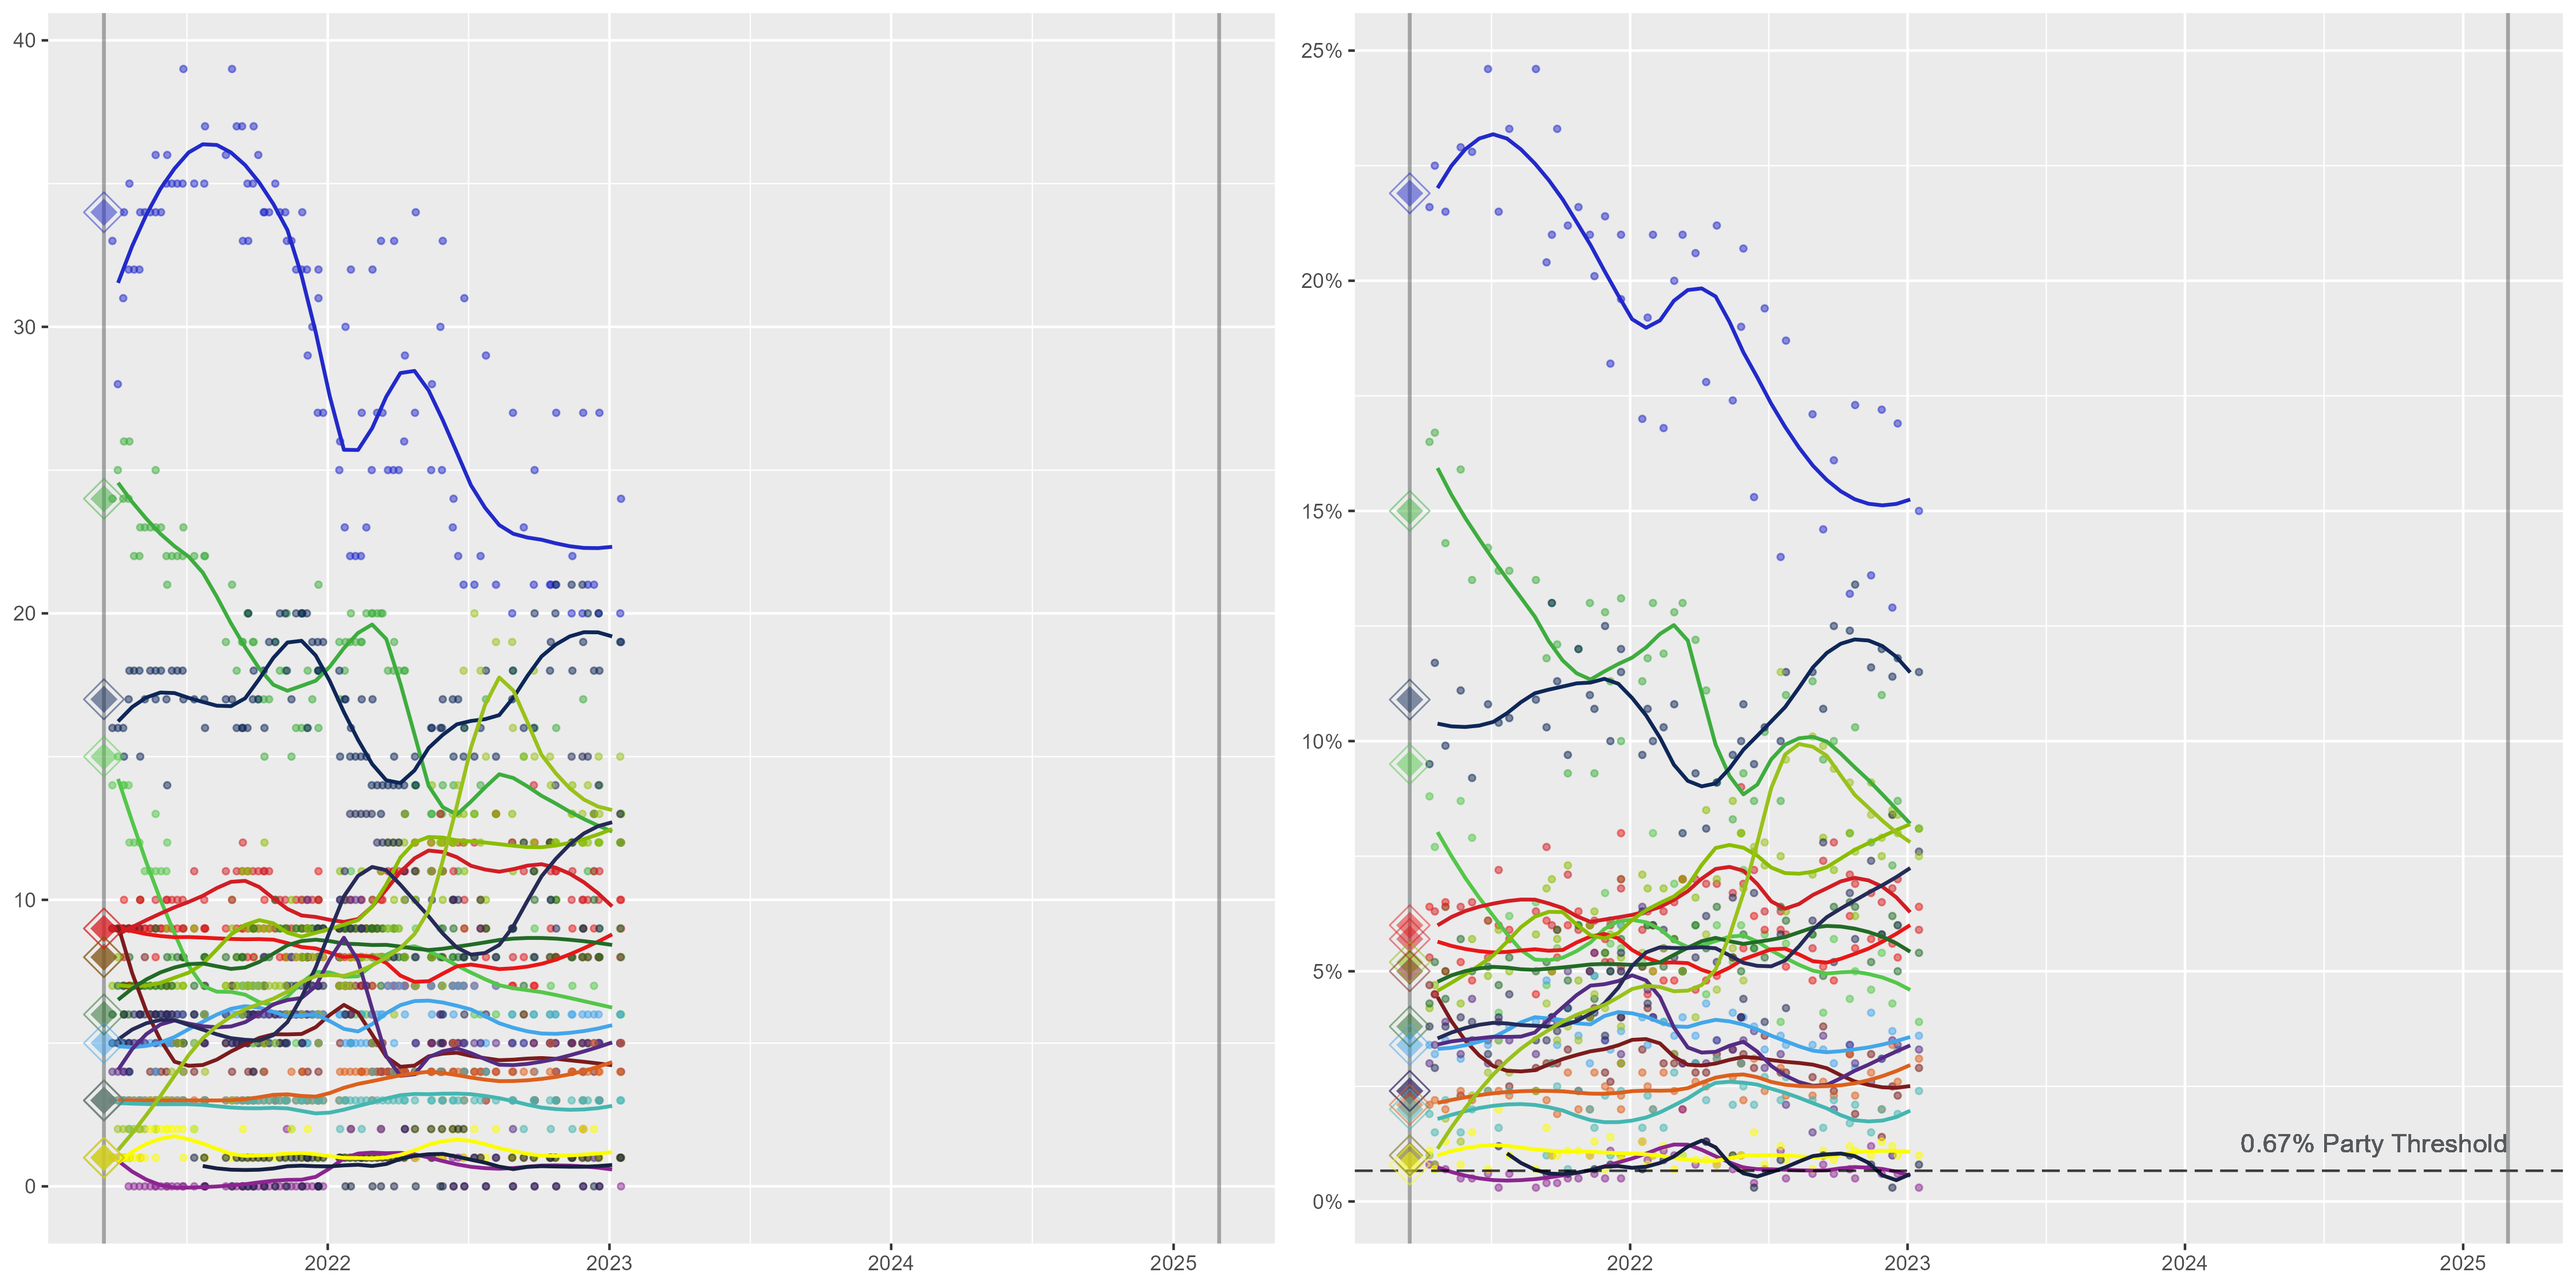
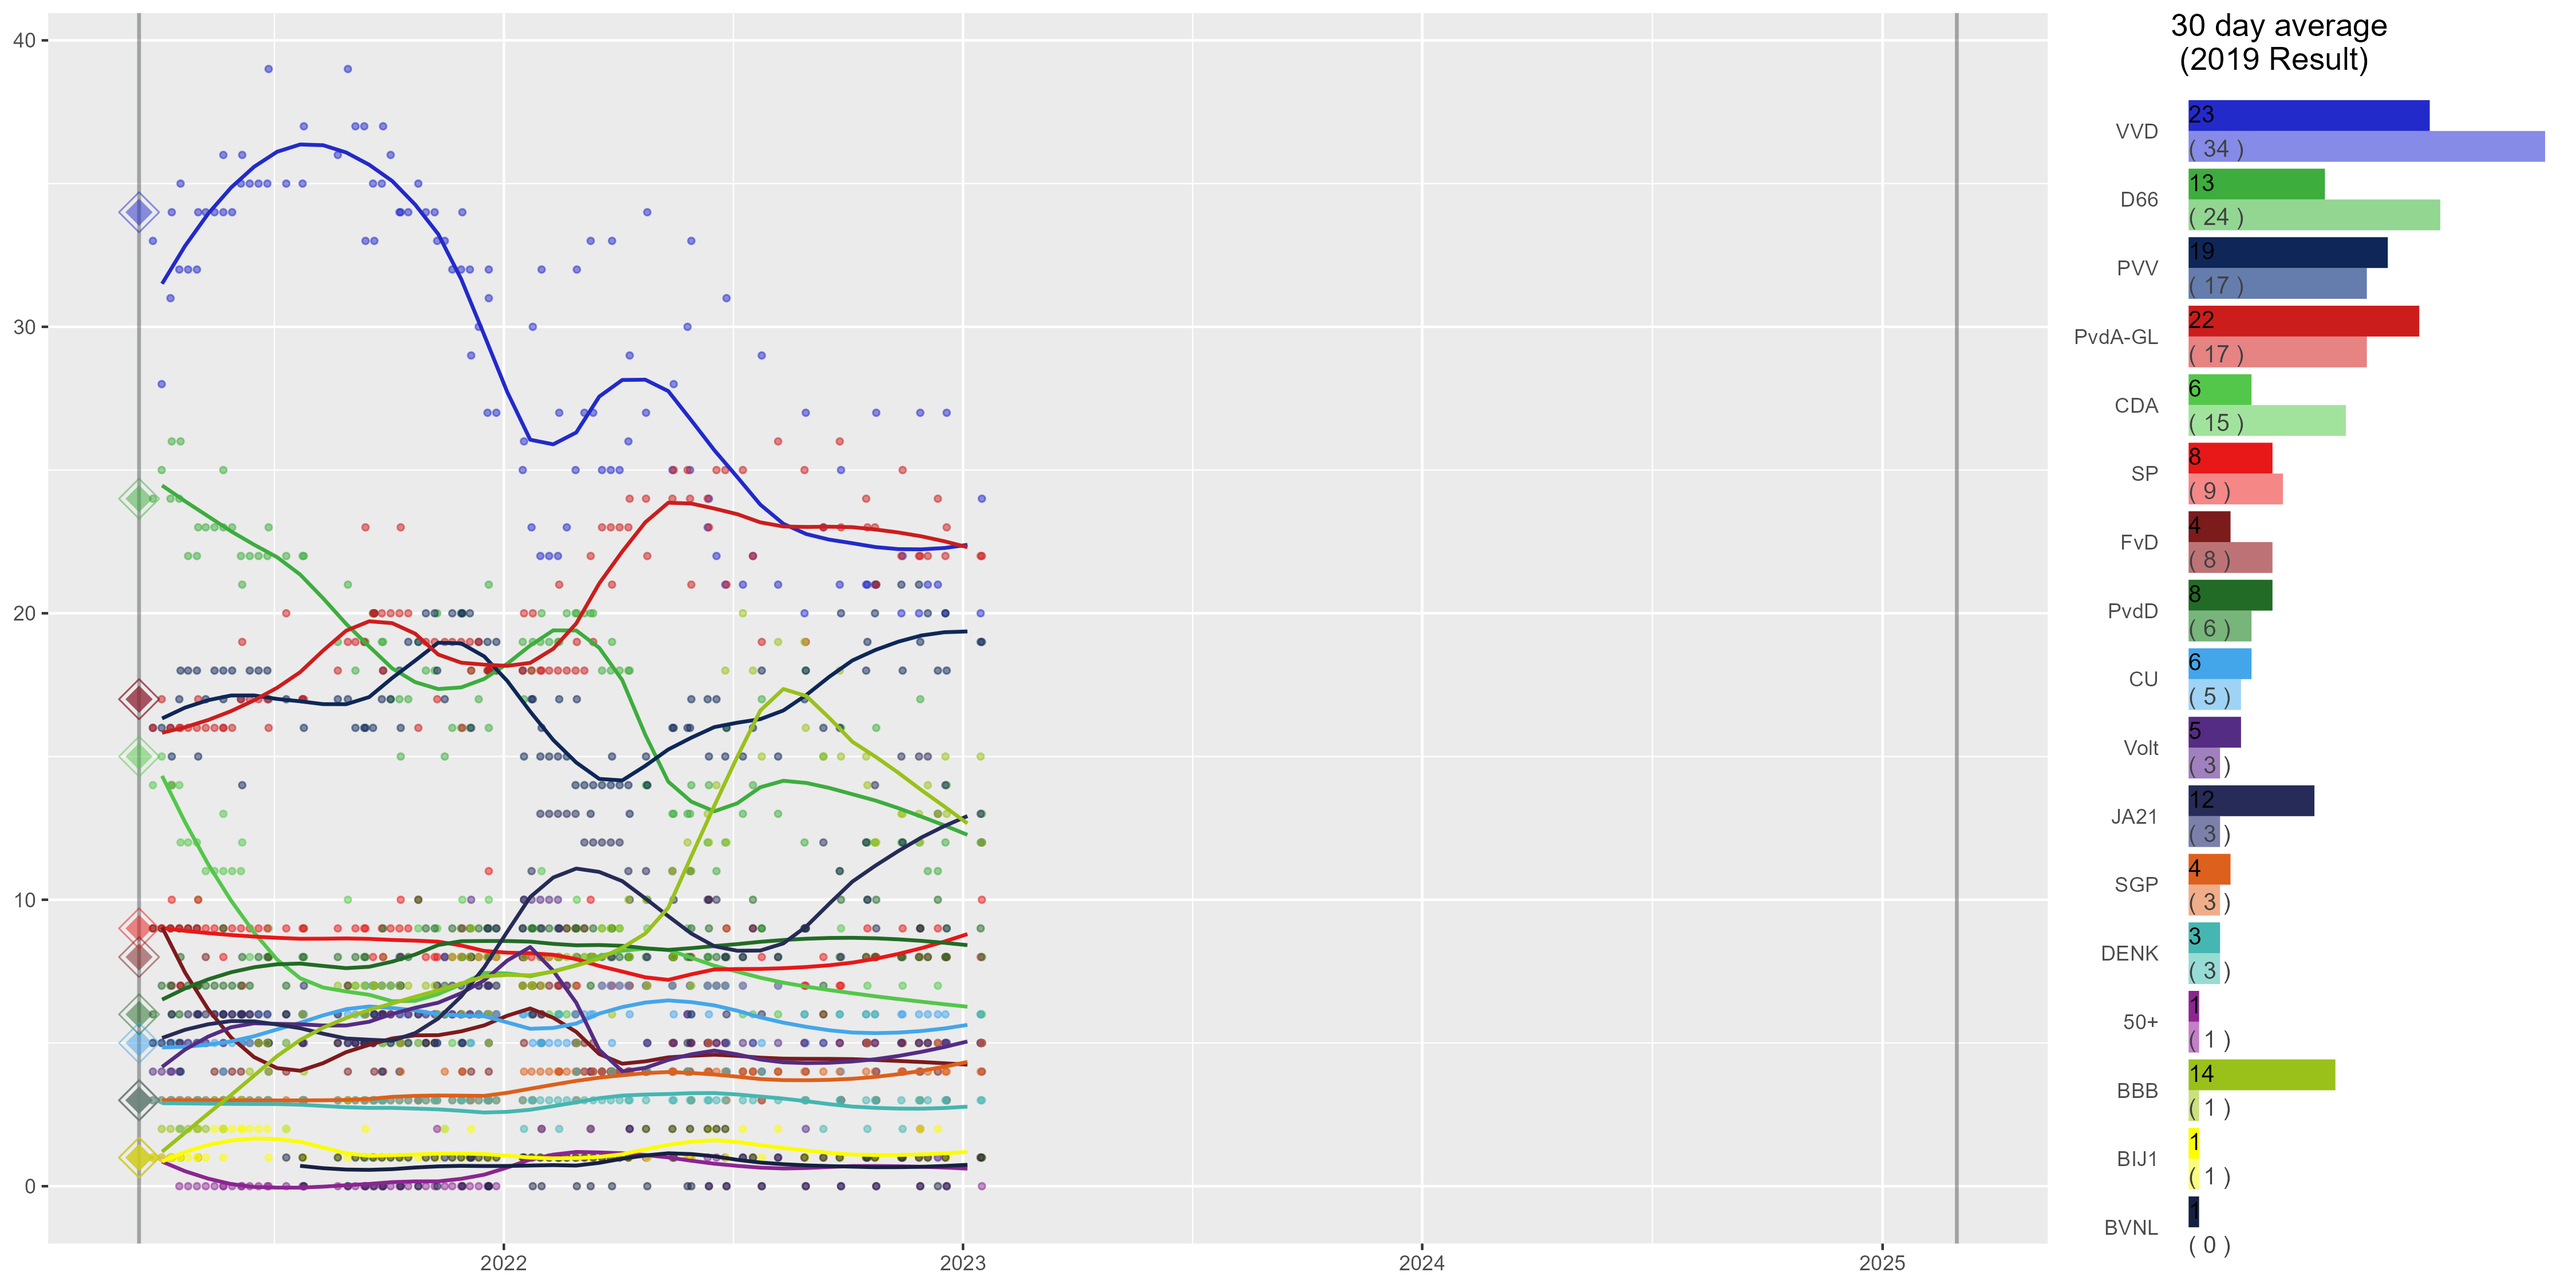
PvdA-GL Fusie!!!!

diff --git a/Dutch_Elections/data.py b/Dutch_Elections/data.py
@@ -33,7 +33,7 @@ print(data)
 data.to_csv('Dutch_Elections/poll.csv', index=False)
 
 
-data2=pd.DataFrame(df[1])
+data2=pd.DataFrame(df[0])
 data2=data2.drop(["Polling firm", "Sample size", "Others", "Lead"], axis=1)
 
 headers = ['Date','VVD','D66','PVV','CDA','SP','PvdA','GL','FvD','PvdD','CU','Volt','JA21','SGP','DENK','50+','BBB','BIJ1','BVNL']
@@ -46,8 +46,17 @@ data2.Date2.fillna(data2.Date, inplace=True)
 data2.Date = data2.Date2
 data2 = data2.drop(['Date2'],axis=1)
 data2.Date = data2['Date'].astype(str)
-data2=data2[~data2.Date.str.contains("16 Mar 2022")]
 data2.Date = data2.Date.apply(lambda x: dateparser.parse(x))
 data2 = data2[data2['VVD'] != data2['BIJ1']]
+for z in parties:
+    data2[z] = [x.replace('–','') for x in data2[z].astype(str)]
+Fusie=['PvdA','GL']
+data2[Fusie] = data2[Fusie].astype(float)
+data2['PvdA-GL'] = data2[Fusie].sum(axis=1)
+data2 = data2.drop(Fusie, axis=1)
+
+data2 = data2[['Date','VVD','D66','PVV','PvdA-GL','CDA','SP','FvD','PvdD','CU','Volt','JA21','SGP','DENK','50+','BBB','BIJ1','BVNL']]
 
 data2.to_csv('Dutch_Elections/poll2.csv', index=False)
+
+
